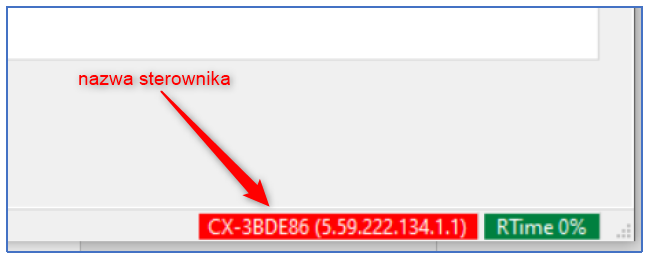
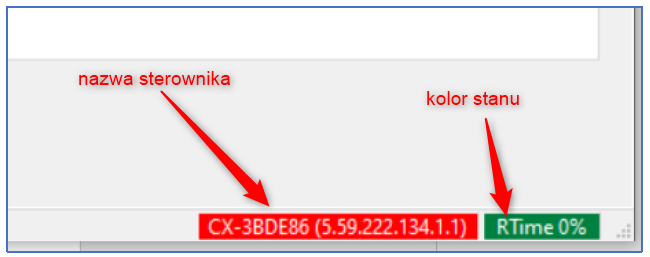
impro

Changed region(s): [[0.7385, 0.4669, 0.8, 0.8405], [0.6462, 0.3424, 0.8, 0.4358]]

diff --git a/docs/TwinCAT 2/Pobieranie konfiguracji.md b/docs/TwinCAT 2/Pobieranie konfiguracji.md
@@ -15,15 +15,16 @@ layout: page
 1. TOC
 {:toc}
 
-Poniższa instrukcja prezentuje, w jaki sposób pobrać konfigurację sprzętową ze sterownika wyposażonego w TwinCAT 2.
+Poniższa instrukcja prezentuje w jaki sposób pobrać konfigurację sprzętową ze sterownika wyposażonego w TwinCAT 2.
 Instrukcja w żaden sposób nie zastępuje szkolenia i nie może być tak traktowana, ponieważ może zawierać informacje i skróty myślowe niejasne dla osoby, która tego szkolenia nie przeszła.
 
-# TwinCAT 2
+# Pobranie i instalacja TwinCAT 2
 Link do pobrania oporgramowania:
 - [wersja 32bit](https://www.beckhoff.com/pl-pl/support/download-finder/search-result/?download_group=97248943&download_item=645885953)
 - [wersja 64bit](https://www.beckhoff.com/pl-pl/support/download-finder/search-result/?download_group=97248943&download_item=645997772)
 
-Oprogramowanie instalujemy jako Administrator. 
+Oprogramowanie instalujemy jako *Administrator*. 
+<br>
 <br>
 **UWAGA!** Jeśli posiadasz już na swoim komputerze  środowisko TwinCAT 3 (wersja<=3.1.4024.x), postępuj zgodnie z instrukcją znajdującą się [tutaj.](https://infosys.beckhoff.com/english.php?content=../content/1033/tc3_installation/179471755.html)
 
@@ -32,8 +33,9 @@ W celu połączenia ze sterownikiem wyposażonym w TwinCAT 2 należy uruchomić 
 
 ![tsm1](https://ba-pl.github.io/wiki/assets/images/tsm1.png "tsm1")
 
-Przy pierwszym użyciu środowisko może wczytywać się nieco dłużej. Na dole powinien pojawić się pasek postępu wczytywania opisów urządzeń *Rebuilding EtherCAT Devices description cache". 
-Jeśli nie jest to pierwse użycie narzędzia, przed wykonaniem kolejnych kroków warto jest otworzyć nową, pustą konfigurację.
+Przy pierwszym użyciu środowisko może wczytywać się nieco dłużej. Na dole powinien pojawić się pasek postępu wczytywania opisów urządzeń *Rebuilding EtherCAT Devices description cache*. 
+<br>
+Jeśli nie jest to pierwse użycie narzędzia, przed wykonaniem kolejnych kroków warto jest otworzyć nową, pustą konfigurację:
 
 ![tsm0](https://ba-pl.github.io/wiki/assets/images/tsm0.png "tsm0")
 
@@ -55,18 +57,25 @@ Po wyszukaniu sterownika można przejść do dodania do niego połączenia (Rout
 
 ![tsm5](https://ba-pl.github.io/wiki/assets/images/tsm5.png "tsm5")
 
-W oknie, które się pojawi wpisujemy hasło (domyślnie jest to „1”, jednak może ono zostać zmienione przez użytkownika) i wybieramy OK. W efekcie w polu *Connected* powinien się pojawić się znak „X” (jak na zrzucie ekranu powyżej). Połączenie zostało dodane, można więc wyjść z okna klikając **Close**.
+W oknie, które się pojawi wpisujemy hasło (domyślnie jest to „1”), jednak może ono zostać zmienione przez użytkownika) i wybieramy OK. W efekcie w polu *Connected* powinien się pojawić się znak „X” (jak na zrzucie ekranu powyżej). Połączenie zostało dodane, można więc wyjść z okna klikając **Close**.
+<br>
 <br>
 Następnie w oknie do którego wracamy, należy wybrać sterownik, do którego dodano połączenie  - poprzez dwukrotne kliknięcie na jego pozycji na liście – i następnie można już przystąpić do procedury pobrania konfiguracji sprzętowej.
 
 ![tsm6](https://ba-pl.github.io/wiki/assets/images/tsm6.png "tsm6")
 
 # Pobranie konfiguracji sprzętowej 
-W celu pobrania konfiguracji powinny zostać najpier wykonane kroki z poprzedniego rozdziału - połączenie ze sterownikiem powinno być nawiązane i sterownik powinien zostać również wybrany jako Target System. W prawym dolnym rogu powinna być widoczna nazwa sterownika oraz obok nazwy, status TwinCATa. Status TwinCATa musi sygnalizować albo stan pracu RUN (zielony kolor) lub stan konfiguracyjny CONFIG (niebieski kolor). Nie może tam znajdować się kolor czerowny (STOP), szary (INACTIVE) lub żółty (TIMEOUT). 
+W celu pobrania konfiguracji powinny zostać najpierw wykonane kroki z poprzedniego rozdziału - połączenie ze sterownikiem powinno być nawiązane i sterownik powinien zostać również wybrany jako Target System.
+<br>
+W prawym dolnym rogu powinna być widoczna nazwa sterownika oraz obok nazwy, status TwinCATa. 
+<br>
+Status TwinCATa musi sygnalizować albo stan pracu RUN (zielony kolor) lub stan konfiguracyjny CONFIG (niebieski kolor). 
+<br>
+Nie może tam znajdować się kolor czerowny (STOP), szary (INACTIVE) lub żółty (TIMEOUT). 
 
 ![tsmx](https://ba-pl.github.io/wiki/assets/images/tsmx.png "tsmx")
 
-W celu pobrania konfiguracji sprzętowej należy wybrać przycisk File --> Open From Target:
+Następnie w celu pobrania konfiguracji sprzętowej należy wybrać przycisk File --> Open From Target:
 
 ![tsm7](https://ba-pl.github.io/wiki/assets/images/tsm7.png "tsm7")
 
@@ -74,8 +83,8 @@ Po wybraniu tego przycisku powinna załadować się konfiguracja sprzętowa:
 
 ![tsm8](https://ba-pl.github.io/wiki/assets/images/tsm8.png "tsm8")
 
-**Jeżeli po pobraniu pojawi się pytanie o update Ams Net ID, należy wybrać opcję „Nie”, aby nie utraciły się referencje do fizycznych urządzeń w projekcie. **
+**Jeżeli po pobraniu pojawi się pytanie o update Ams Net ID, należy wybrać opcję „Nie”, aby nie utraciły się referencje do fizycznych urządzeń w projekcie.**
 
-Dobrym zwyczajem jest natychmiastowe zapisanie pobranej konfiguracji, z górnego menu wybierając File --> Save As… (zapisujemy pod taką nazwą, jaka się zaczytała, widoczna w lewym górnym rogu). 
+Dobrym zwyczajem jest natychmiastowe zapisanie pobranej konfiguracji, z górnego menu wybierając File --> Save As… (zapisujemy pod taką nazwą, jaka została zaczytana przy pobieraniu, widoczna w lewym górnym rogu). 
 
 ![tsm9](https://ba-pl.github.io/wiki/assets/images/tsm9.png "tsm9")
